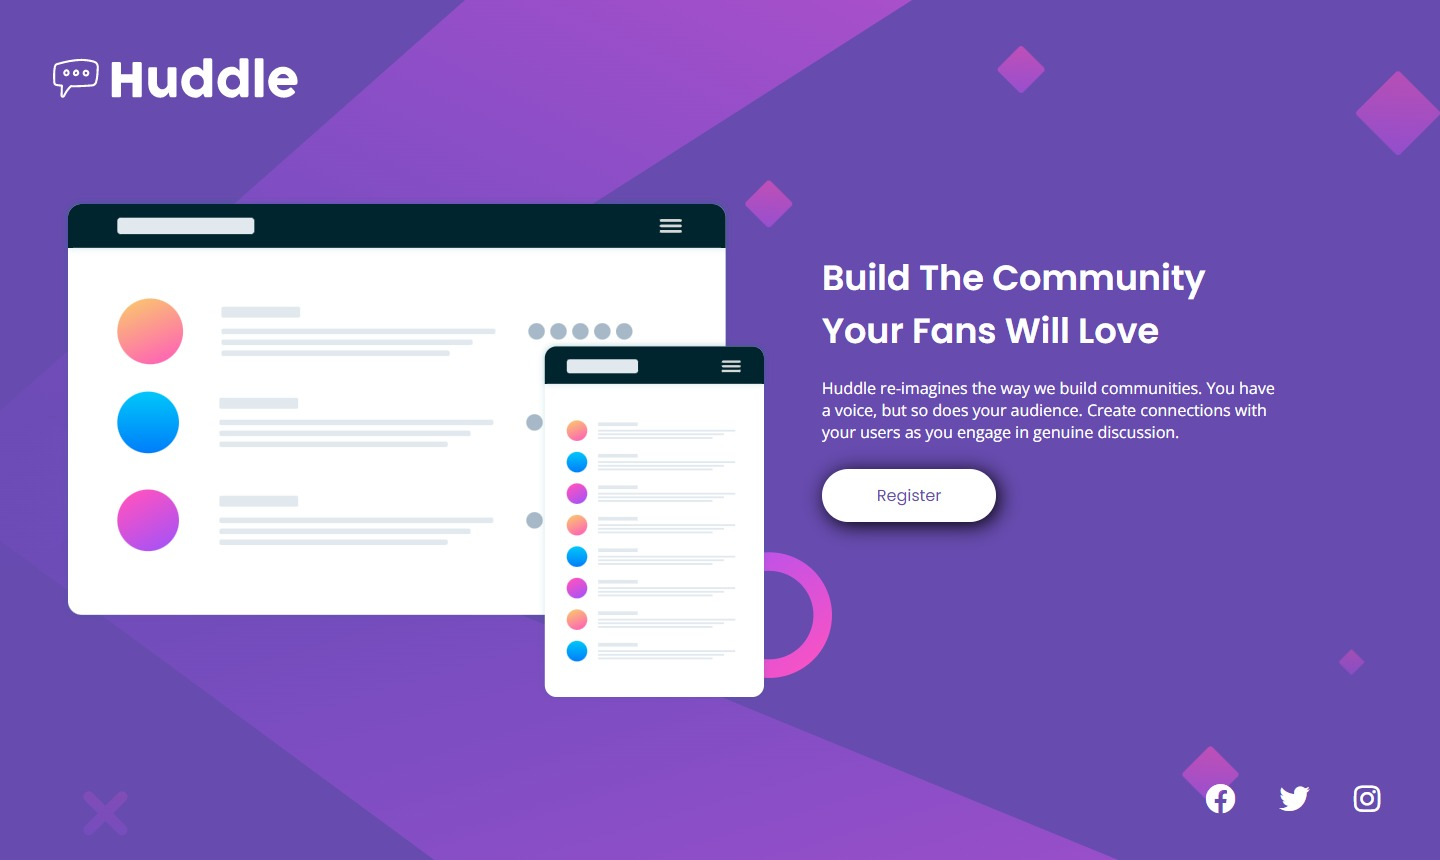
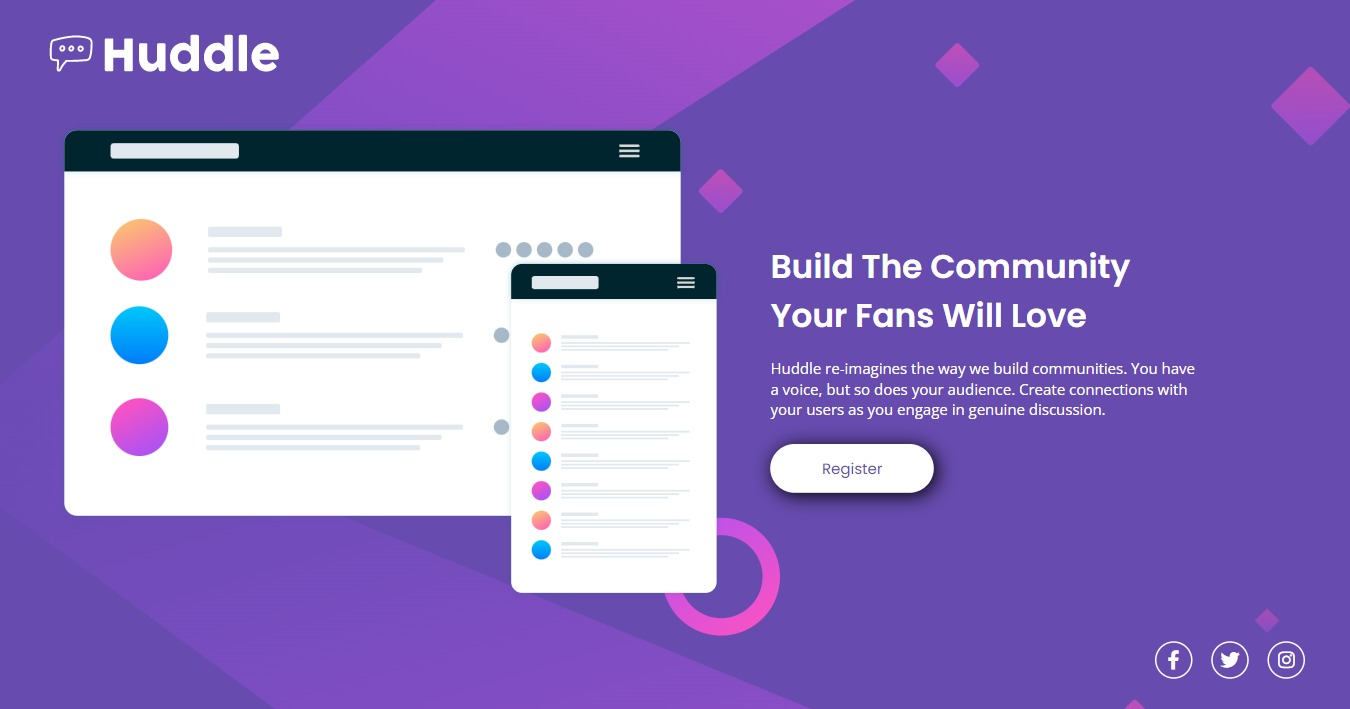
alterados screenshots do readme com correcoes do responsive

diff --git a/src/css/responsive.css b/src/css/responsive.css
@@ -1,9 +1,9 @@
 @media (max-width: 768px) {
     .container {
         grid-template-areas: "header"
-            "mockup"
-            "info"
-            "footer";
+                             "mockup"
+                             "info"
+                             "footer";
         grid-template-columns: 1fr;
     }
 

diff --git a/src/css/style.css b/src/css/style.css
@@ -46,7 +46,6 @@ body {
 }
 
 .info .infos {
-    margin-top: 80px;
     max-width: 465px;
 }
 
